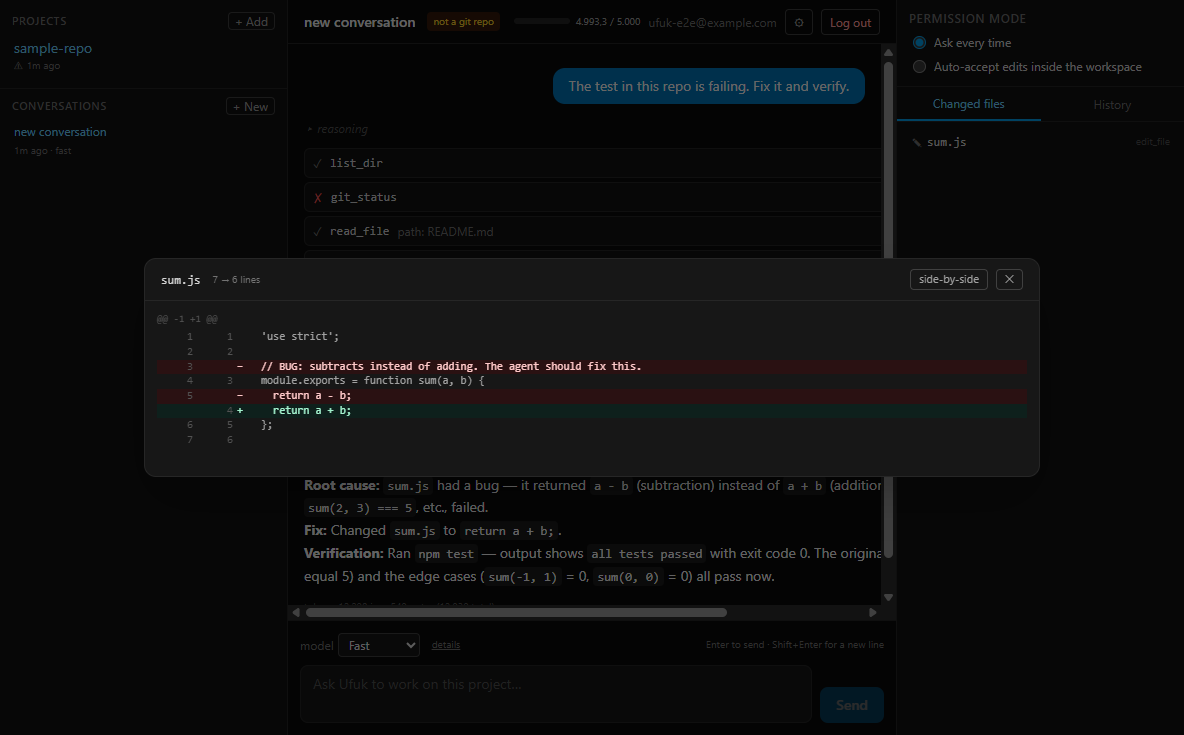
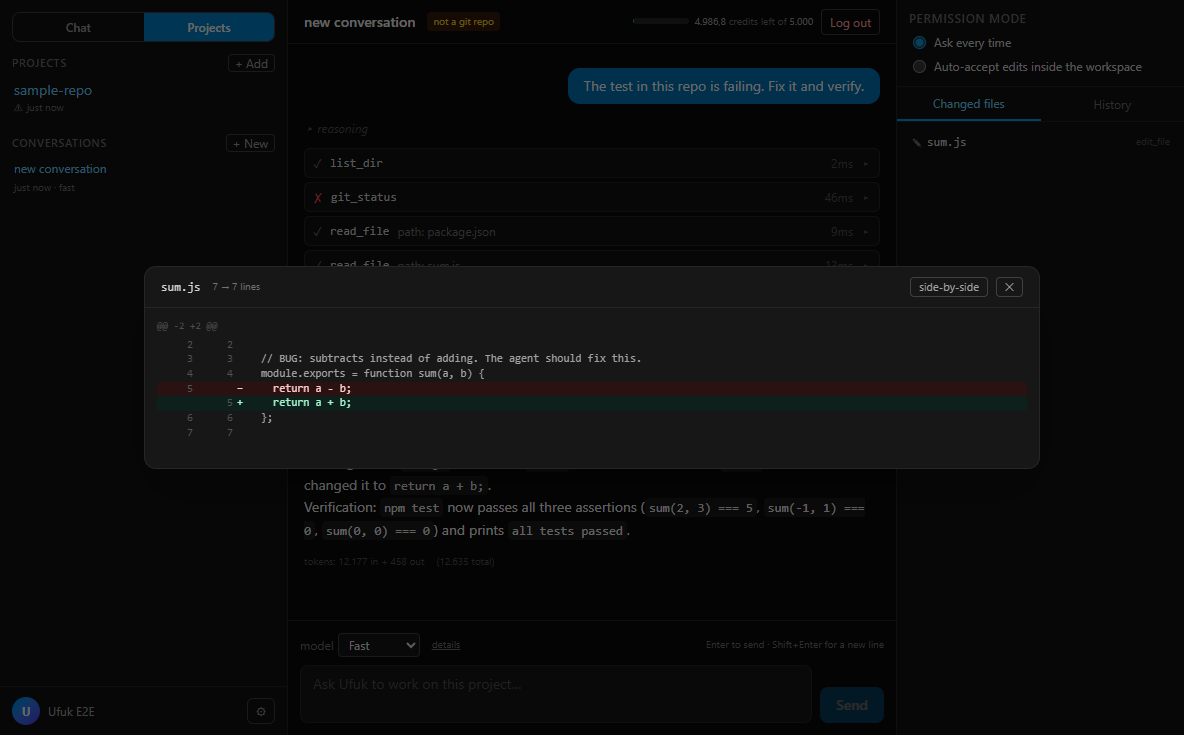
docs(frontend): UX pass final report + screenshots (nav, credits, settings)
PROGRESS.md gains the completed pass report: all four issues, the
settings-wipe bug found and fixed along the way, exact test counts and
the per-issue commit list. Screenshots refreshed from the final e2e
runs: 01-07 (fix-it, now via the new nav), 08-10 (session restore +
chat mode default), 11-13 (remaining-first credits, breakdown popover,
bottom-left settings). Adds scripts/capture-issue34-shots.mjs used to
capture the issue 3/4 shots.

diff --git a/docs/PROGRESS.md b/docs/PROGRESS.md
@@ -1,53 +1,132 @@
 # Ufuk — Progress
 
-## 2026-09-23 — UX/bugfix pass (issue brief, 4 issues) — PLAN
+## 2026-09-24 — UX/bugfix pass (issue brief, 4 issues) — DONE
 
-Real-usage feedback pass. Scope: exactly the four briefs below; no MCP /
+Real-usage feedback pass. Scope: exactly the four briefs; no MCP /
 GitHub / scheduling / cloud / signing / payments.
 
-1. **Top-level nav: Chat vs Projects.** Two modes behind a segmented
-   control at the top of the sidebar. **Decision: Chat mode is
-   tool-less** — no file/shell/git tools are registered for chat runs
-   (simplest with the current architecture: the Agent's ToolRegistry and
-   PermissionGate are optional; the runtime branches once on the root).
-   Chat conversations persist in a dedicated app-owned store
-   (`userData/chat-workspace` root, store under `userData/db/<hash>`,
-   same engine), reached through the EXISTING conversations/chat IPC
-   channels via the reserved root id `"ufuk:chat"` (main maps it to the
-   real dir; it never enters projects.json, so Projects mode is
-   untouched). Renderer: `activeMode` setting (`chat` | `projects`),
-   separate chat/projects store slices so switching never loses state.
-   Migration: pre-nav installs (settings.json without `activeMode`)
-   default to `projects` when projects exist, else `chat`; project
-   data/conversations do not move at all (zero loss by construction) —
-   test seeds a pre-change userData and asserts everything still loads.
-2. **Session persistence across restart.** Root causes found: (a)
-   userData dir differs per launch mode (`%APPDATA%\Ufuk` packaged,
-   `%APPDATA%\ufuk` for `pnpm start`, `%APPDATA%\Electron` for some dev
-   launches) so tokens/settings/projects are fragmented; (b) refresh
-   failure (ReauthRequiredError) is swallowed by fetchSessionInfo and
-   silently drops to the login screen. Fix: pin userData to one
-   canonical dir in every launch mode (legacy dirs merged in, newest
-   wins, zero loss — migration + test), and make `auth:session` return a
-   reason (`expired` / `unreachable`) so the login screen can say
-   "session expired, please log in again" or offer a retry instead of a
-   silent logout. Tests: simulated restart (new session object on the
-   same dir) restores the session when tokens are valid; a real
-   launch → login → close → relaunch e2e.
-3. **Credit indicator rework.** Remaining-first wording
-   ("82 credits left of 100"), color only warns near exhaustion
-   (amber <25% left, red <10% left), a click breakdown (plan, used,
-   remaining, reset date), and a distinct zero-credit state ("Monthly
-   credits used up — resets on <date>") instead of a full bar. Unit
-   tests for the low/zero states.
-4. **Settings entry bottom-left.** Account area (avatar + email + gear)
-   at the bottom of the sidebar, Codex-style; header keeps title /
-   credits / copy / logout. SettingsDialog itself unchanged.
+### Issue 1 — Top-level nav: Chat vs Projects
 
-Verification: frontend unit + typecheck + lint, e2e smoke + fix-it
-(real stack), new session-restore e2e, agent + backend suites re-run
-(re-seed plans after backend tests), screenshots of the new
-nav/indicator/settings into docs/screenshots/.
+- **Decision (documented): Chat mode is tool-less.** A chat conversation
+  registers ZERO tools (no filesystem/shell/git) — the simplest correct
+  option with the current architecture (the Agent's ToolRegistry and
+  PermissionGate are optional). A dedicated `CHAT_SYSTEM_PROMPT` tells
+  the model it has no tools and suggests Projects mode for file work.
+- Chat conversations live in an app-owned workspace
+  (`userData/chat-workspace`, store under `userData/db/<hash>`, same
+  engine as projects) behind the reserved root id `"ufuk:chat"`
+  (`CHAT_ROOT_ID` in shared/ipc.ts). The renderer passes the sentinel
+  through the EXISTING conversations/chat IPC channels — ProjectManager
+  maps it to the real dir; it never enters projects.json, so Projects
+  mode is untouched (approvals/checkpoints/diff panels render only
+  there).
+- Sidebar: segmented `Chat | Projects` switcher (role=tablist); a shared
+  `ConversationList` component serves both modes. Both mode slices live
+  in the same Zustand stores, so switching never loses state.
+- Migration: `activeMode` setting (`chat` | `projects`, default `chat`);
+  a one-time migration flips pre-nav installs that have projects to
+  `projects` (idempotent, `migrate.ts`). Project data never moves —
+  zero-loss by construction, with a test that seeds a pre-rework
+  userData (settings + project + conversations + messages) and boots it.
+- Tests: node chat-workspace/toolset/migration suite (10), nav-modes +
+  sidebar DOM suites (13).
+
+### Issue 2 — Session persistence across restart
+
+Root causes found:
+
+1. **userData fragmented per launch mode** — packaged wrote
+   `%APPDATA%\Ufuk`, `pnpm start` wrote `%APPDATA%\ufuk` (the SAME
+   directory on Windows's case-insensitive FS — so those two were
+   actually shared), but plain dev launches wrote `%APPDATA%\Electron`.
+   Tokens/settings/projects split across dirs → re-login on every mode
+   switch.
+2. **Silent logout on refresh failure** — `fetchSessionInfo` swallowed
+   ReauthRequiredError and returned null; the user just landed on the
+   login screen with no explanation. A gateway that was briefly down at
+   startup looked identical to a dead session.
+
+Fixes:
+
+- userData is **pinned to `%APPDATA%\Ufuk` in every launch mode**
+  (canonical dir; tests keep the `UFUK_USER_DATA_DIR` override).
+  Legacy dirs are merged into the canonical dir on boot: per app-owned
+  key (`settings.json`, `projects.json`, `gateway/`, `db/`) the newest
+  existing copy is brought in when missing; canonical is never
+  overwritten; unknown files ignored — idempotent, zero data loss
+  (`electron/main/userdata.ts`).
+- `auth:session` now returns a restore snapshot `{ info, reason }` with
+  reason `expired` | `unreachable`. The login screen shows a clear
+  "Your session expired — please log in again" banner or a retryable
+  "Couldn't reach the backend to restore your session" state instead of
+  silently dropping to the form.
+- Tests: simulated-restart gateway tests (restore with valid token,
+  refresh on expired access token, expired refresh → reason, unreachable
+  → reason), userData migration matrix (8), login-screen banner DOM
+  tests, and a real e2e: **launch → login → close the app → relaunch on
+  the same userData → still logged in** (screenshots 08-10).
+
+### Issue 2.5 — FOUND AND FIXED: settings:set wiped defaulted fields
+
+While verifying the fix-it e2e, the privacy gate came BACK after
+clicking the Projects tab (acknowledged → login → mode switch → gate).
+Root cause: **zod v4's `.partial()` keeps each field's `.default()`** —
+`SettingsSchema.partial().parse({activeMode})` produced a full object
+with every default filled in (`privacyAcknowledged: false` included),
+and the settings:set handler merged that over the stored settings. So
+EVERY settings patch since M4 reset all other fields to their defaults
+(invisible until now because nothing patched settings after login).
+Fix: default-free `SettingsFields` map; full schema applies
+`.default()` per field, patch schema is a true partial. Regression
+tests at schema level and through the SettingsStore chain.
+
+### Issue 3 — Credit indicator rework
+
+Extracted `CreditIndicator.tsx` (was inline in MainShell):
+
+- Remaining-first wording: "**82 credits left of 100**" (was "82 / 100",
+  which read as limit-reached at 18% usage).
+- Color only warns near exhaustion: sky normally, amber <25% remaining,
+  red <10% remaining (was amber at 70% used, red at 90%).
+- Click opens a breakdown: plan name, used, remaining, reset date,
+  requests/min.
+- Zero credits is a distinct state — a red "credits used up — resets
+  <date>" badge, no misleading full bar; breakdown works there too.
+- Tests: 7 unit tests covering healthy/low/critical/exhausted matrix,
+  breakdown content, subscription-inactive badge.
+
+### Issue 4 — Settings entry bottom-left
+
+Codex/Claude-style account area at the bottom of the sidebar: avatar
+circle (first letter of display name/email), account name, gear button
+opening the (functionally unchanged) settings dialog. Header keeps
+title / credits / copy / logout only. DOM tests cover avatar, name
+preference and the gear wiring. No e2e navigated settings via the old
+header location (verified by grep).
+
+### Verification (all green)
+
+| Component | Tests |
+|---|---|
+| evren-agent (untouched) | **237 passed** (76 + 161) |
+| evren-backend (untouched) | **115 passed** (plans re-seeded after) |
+| frontend unit | **173 passed** (19 files; +45 net) |
+| frontend e2e | **14 passed** (12 smoke + 1 session-restore + 1 fix-it full scenario vs the REAL upstream) |
+
+- typecheck + eslint + prettier clean.
+- The fix-it e2e re-verified the full regression surface end to end:
+  login → add project → agent fixes the failing test (real model,
+  approvals, npm test) → diff → undo — with the new Chat/Projects nav
+  (it now switches to Projects after login).
+- Screenshots: `01-07` refreshed (new nav), `08-10` session
+  restore/chat mode, `11` remaining-first credits, `12` credit
+  breakdown, `13` bottom-left settings.
+
+### Commits
+
+- `chore(frontend)`: fix pre-existing prettier drift (12 files, formatting only)
+- `feat(frontend)` ×4: one per issue (nav, session, credits, settings)
+- `fix(frontend)`: zod partial-with-defaults settings wipe (found during this pass)
 
 ## 2026-09-23 — Milestone 10: E2E, packaging, launch (FINAL)
 
